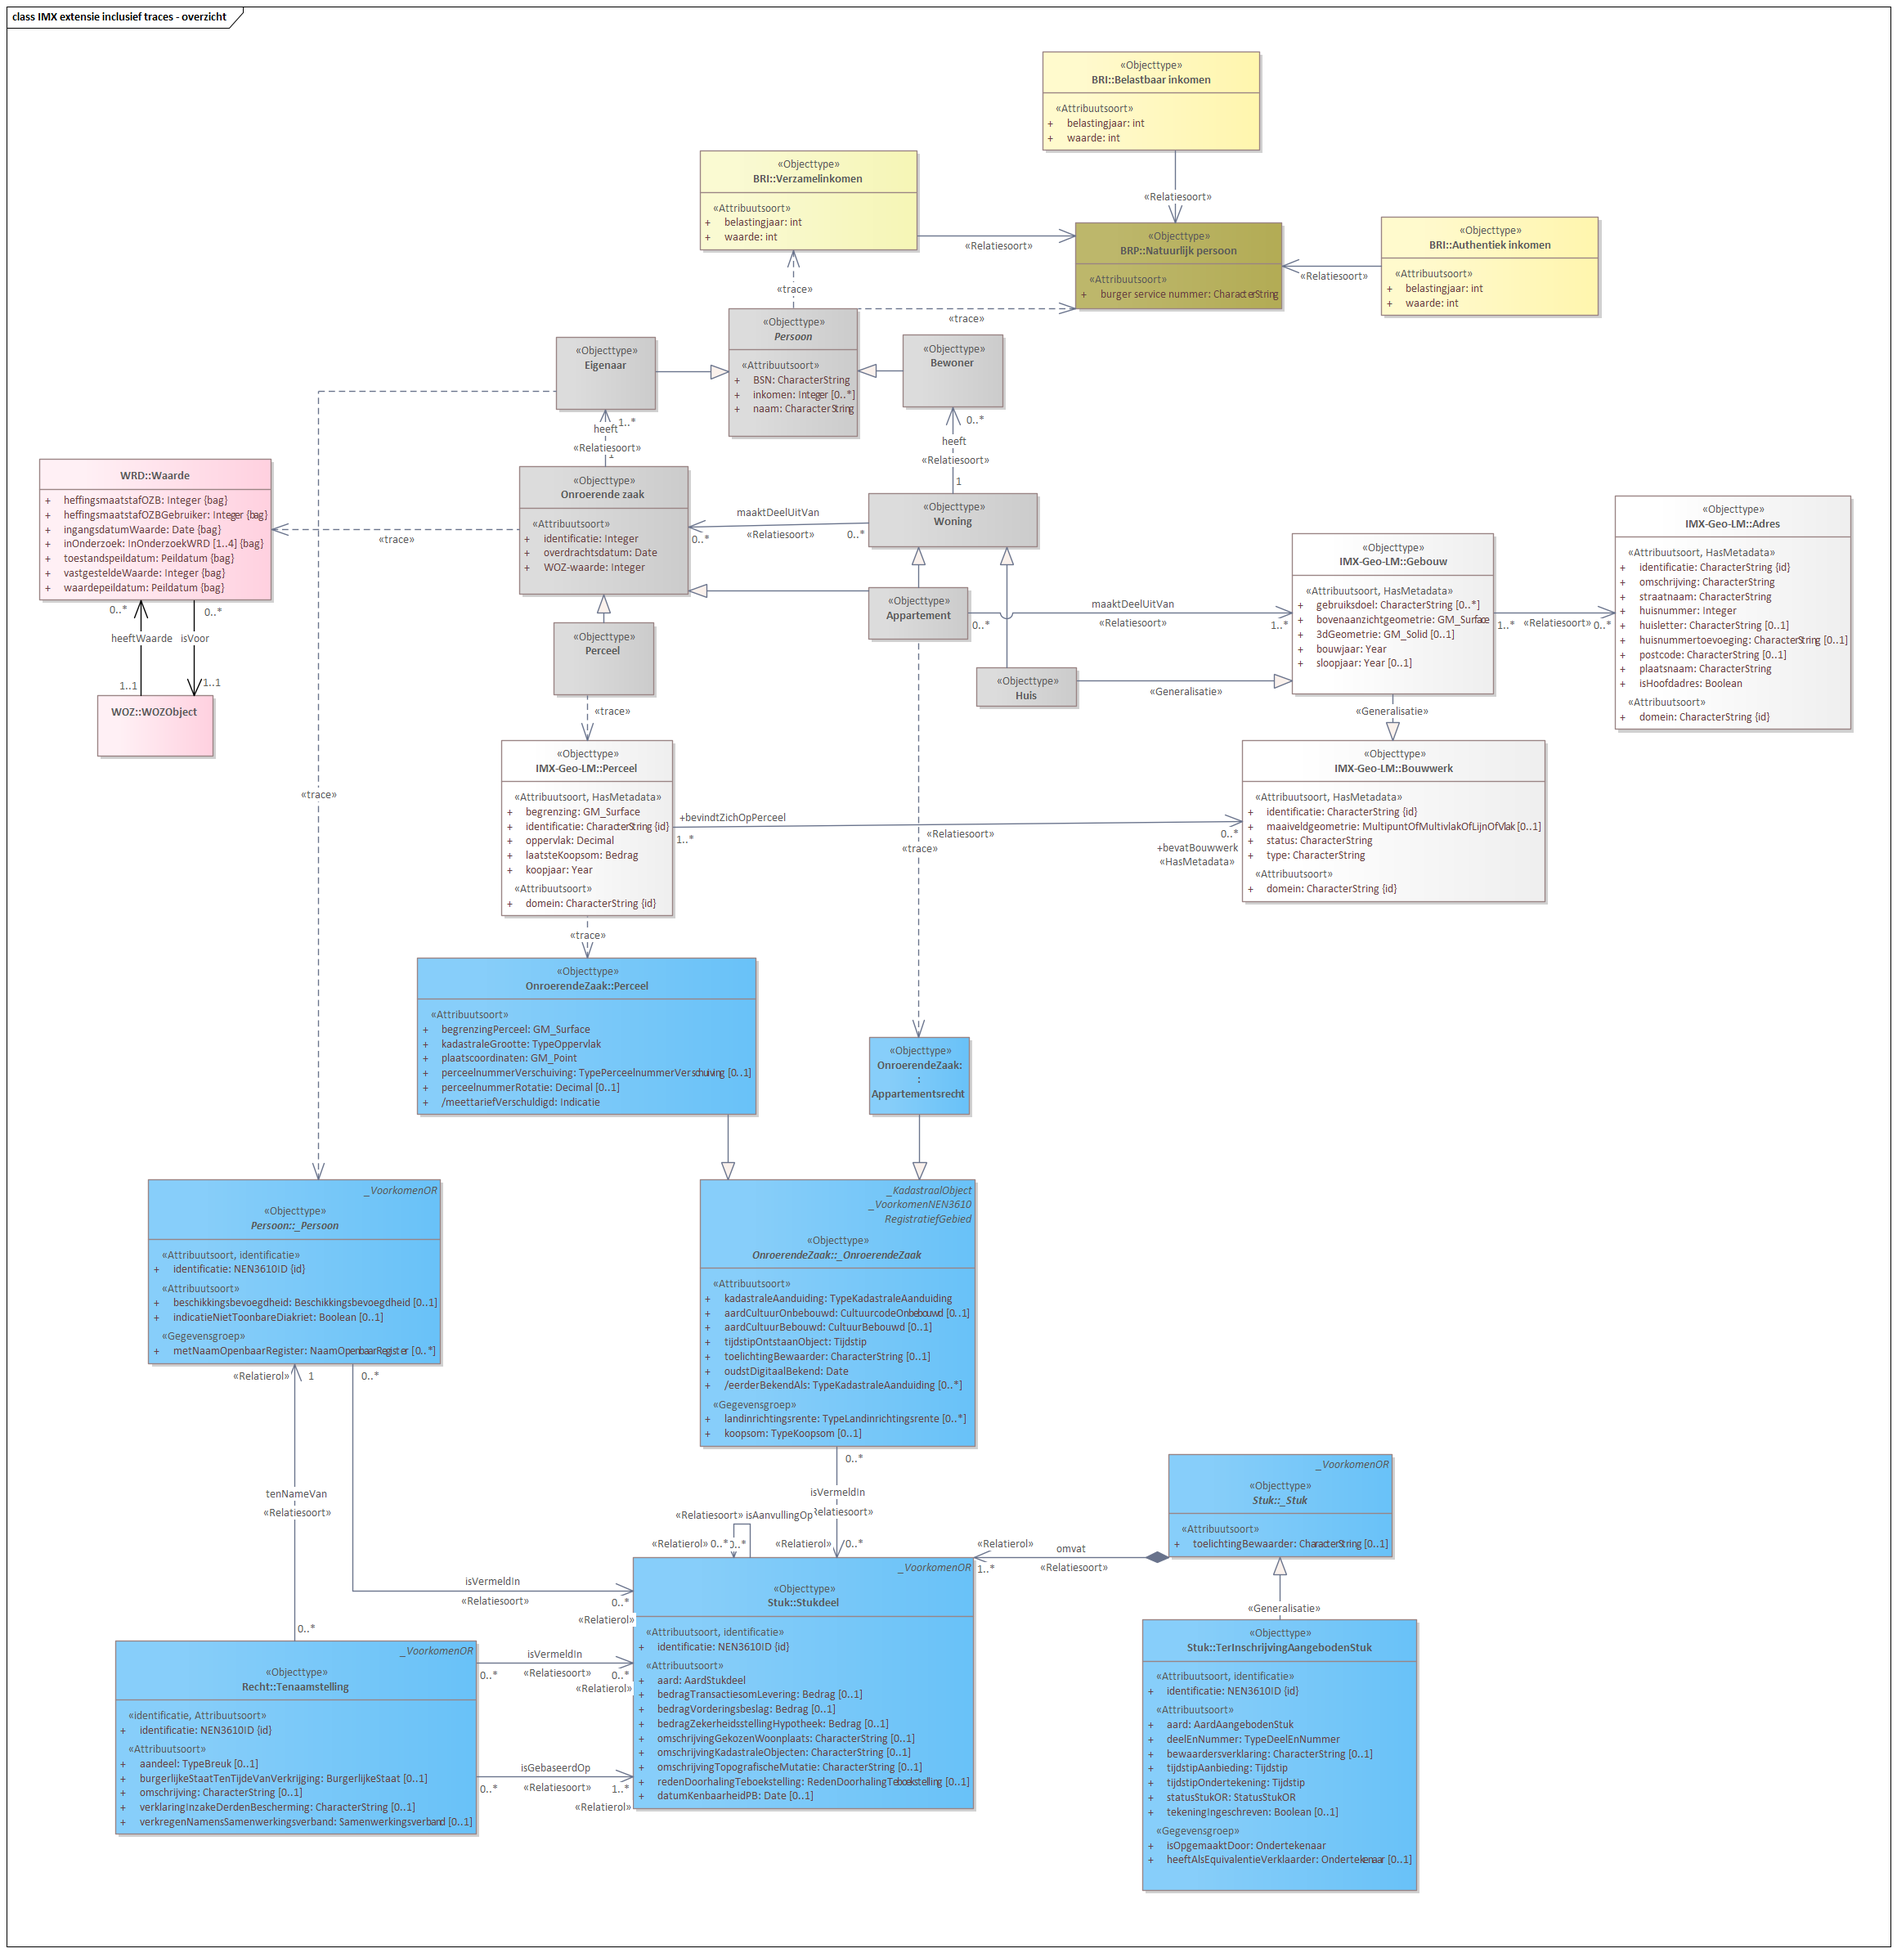
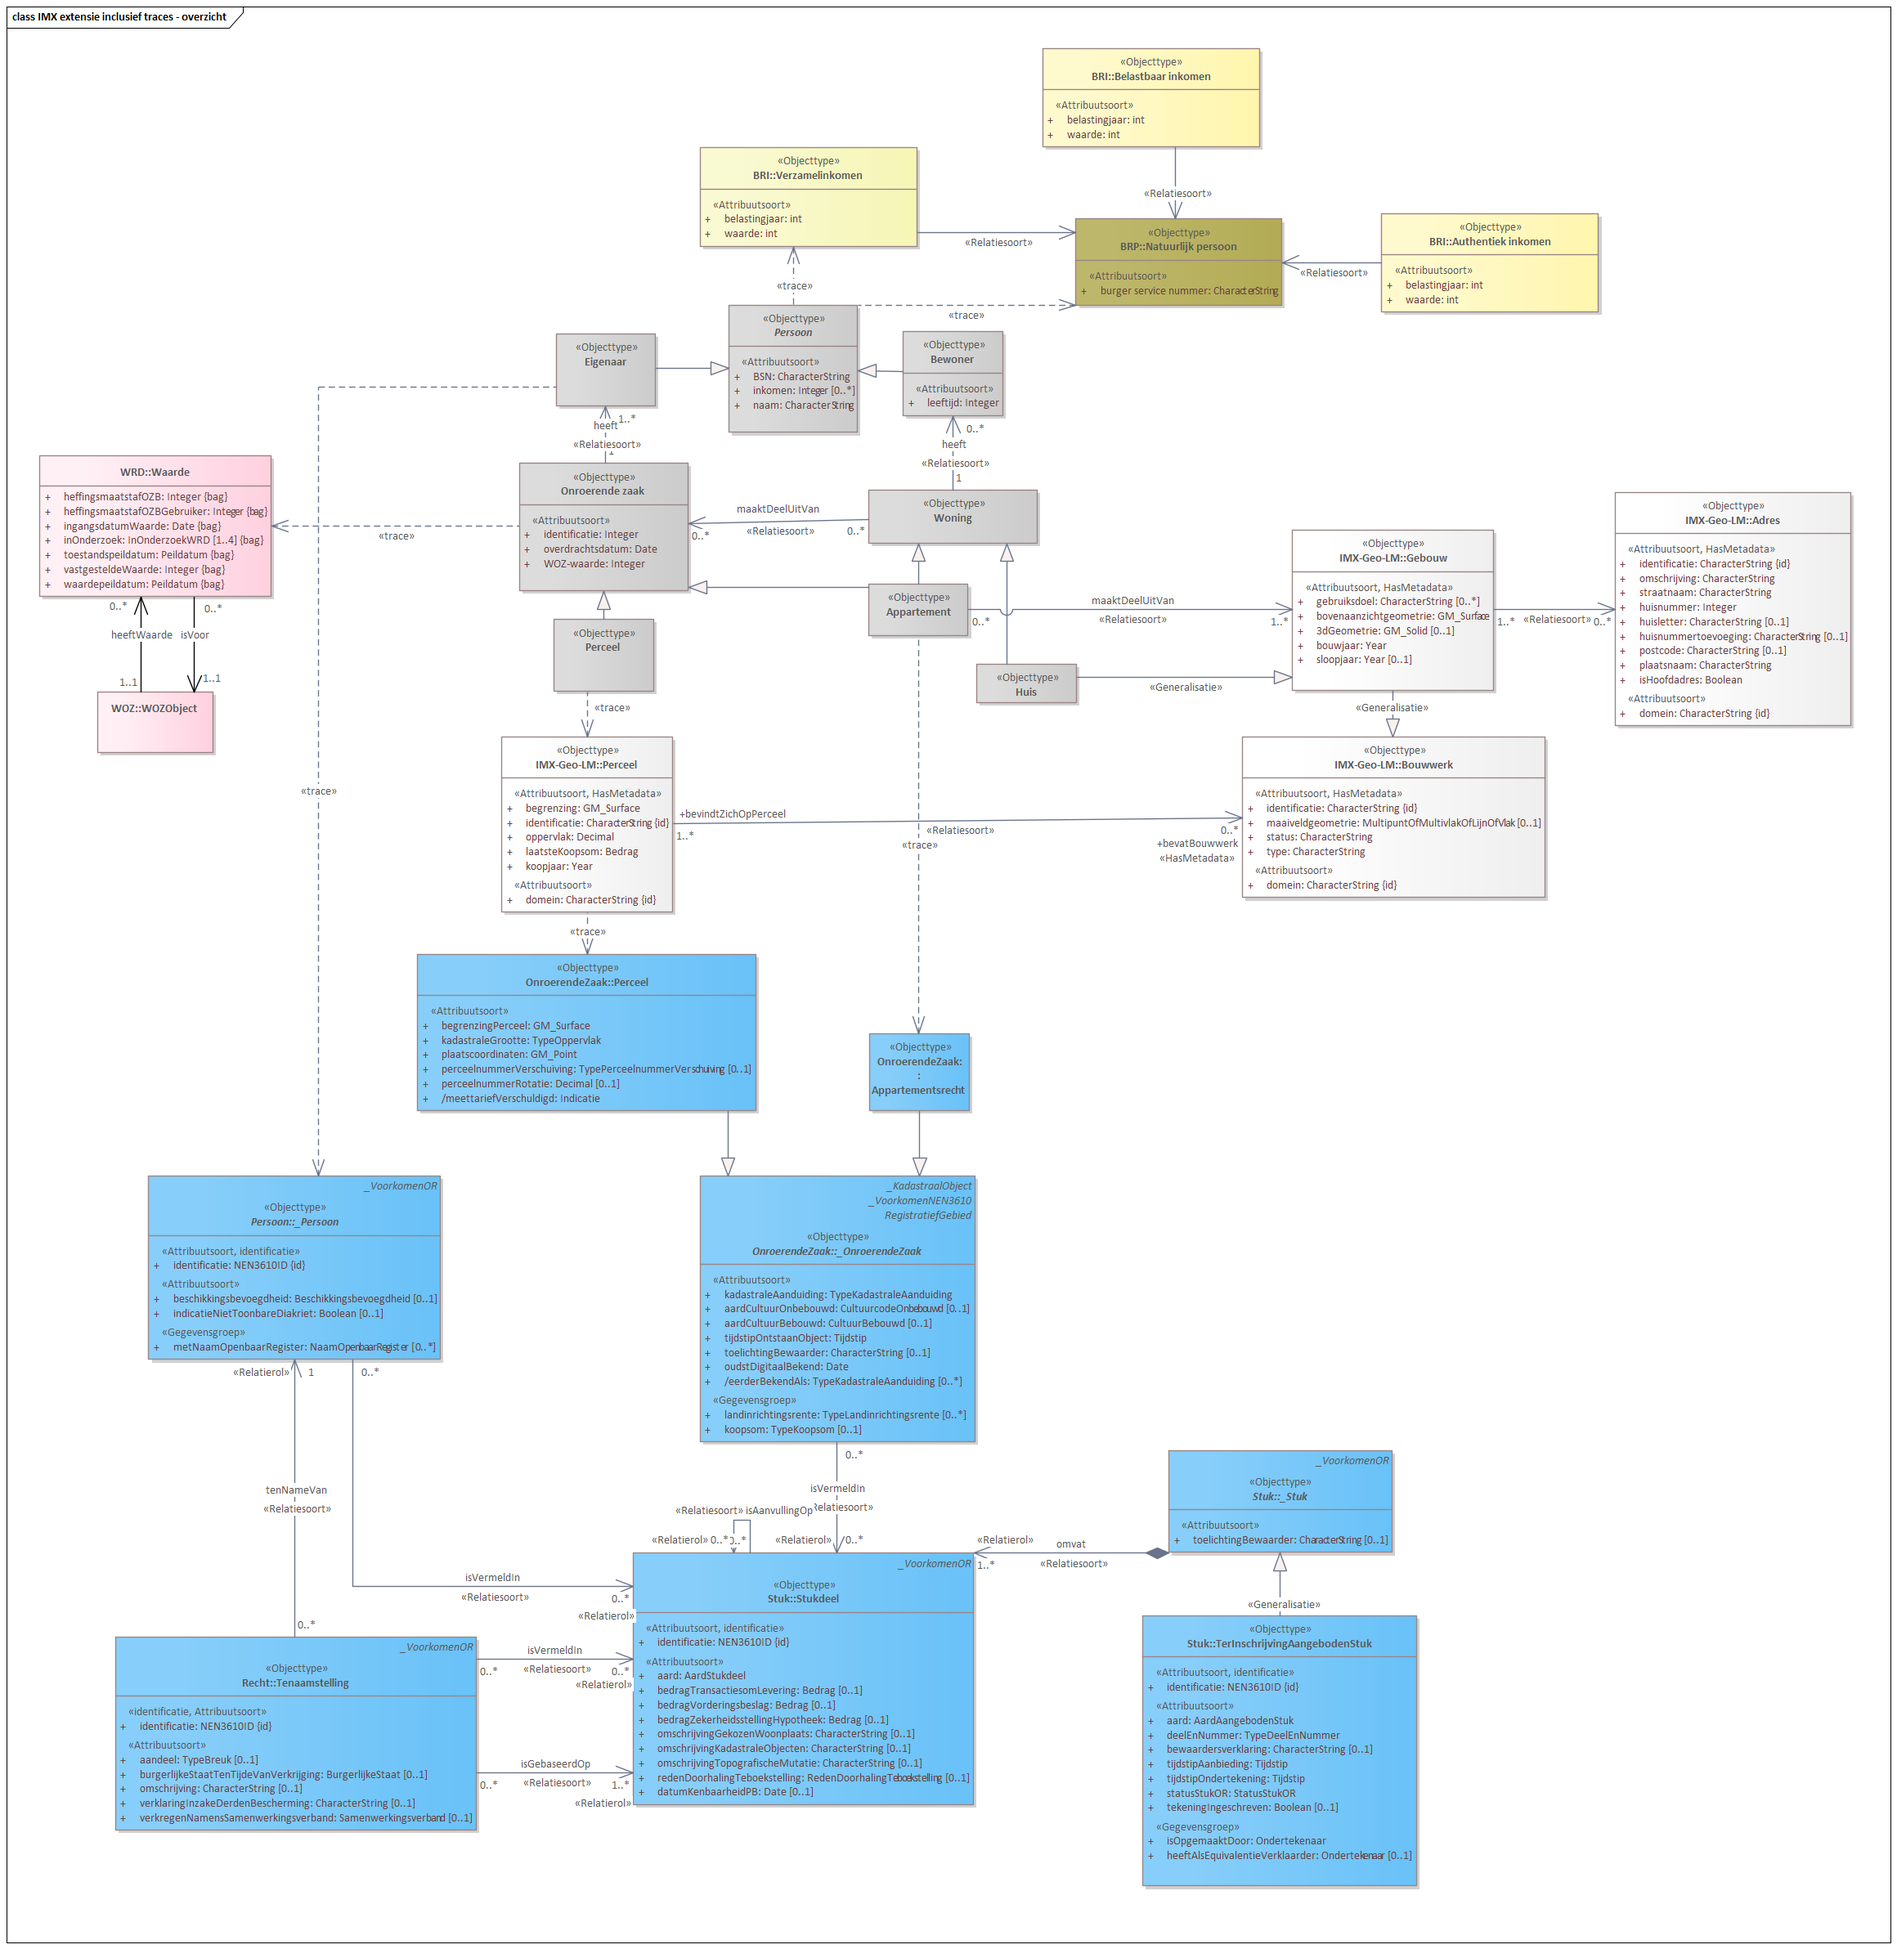
MIMCM-IMXDigilab-1.0-0-20231128-20240111-101956

diff --git a/data/imx-digilab-cat.respec.html b/data/imx-digilab-cat.respec.html
@@ -1,7 +1,7 @@
 
 <!DOCTYPE HTML><section id="cat" class="normative">
    <h2>Gegevensdefinitie</h2>
-   <!--MIMCM-IMXDigilab-1.0-0-20231128-20240111-082328 imvertor 2.0.0--><a class="anchor" id="global_package_InkomensafhankelijkeHuursverhoging"></a><section id="global_package_InkomensafhankelijkeHuursverhoging">
+   <!--MIMCM-IMXDigilab-1.0-0-20231128-20240111-101956 imvertor 2.0.0--><a class="anchor" id="global_package_InkomensafhankelijkeHuursverhoging"></a><section id="global_package_InkomensafhankelijkeHuursverhoging">
       <h3>Domein   Inkomensafhankelijke huursverhoging</h3>
       <section id="EAID_E1D40597_044B_4576_993B_D118A88B1844">
          <h4>   Inkomensafhankelijke huursverhoging - overzicht</h4>
@@ -1472,12 +1472,12 @@
       <h3>Domein   IMX extensie</h3>
       <section id="EAID_354A308E_EC56_463c_872F_C654818040C5">
          <h4>   IMX extensie inclusief traces - overzicht</h4>
-         <div class="imageinfo overview"><img src="data/Images/EAID_354A308E_EC56_463c_872F_C654818040C5.png" usemap="#imagemap-EAID_354A308E_EC56_463c_872F_C654818040C5" alt="Diagram &#xA;                        &#xA;                     "><map name="imagemap-EAID_354A308E_EC56_463c_872F_C654818040C5"><area shape="rect" alt="Persoon" coords="891,377,1049,534" href="#graph_EAID_77C05A32_1FCB_4596_AA1A_6EB78A5305B3"><area shape="rect" alt="Eigenaar" coords="680,412,802,501" href="#graph_EAID_7CAA0575_2AB2_460e_BE89_667DFEAF95C2"><area shape="rect" alt="Bewoner" coords="1104,409,1227,498" href="#graph_EAID_08F9B62A_8946_433a_AF6F_79D96EBBE327"><area shape="rect" alt="Huis" coords="1194,816,1317,864" href="#graph_EAID_6C86362C_775A_4448_BA53_2CE8EF9E6DDA"><area shape="rect" alt="Appartement" coords="1062,718,1184,782" href="#graph_EAID_4783E668_1C36_4cdb_AF6B_3682E5523703"><area shape="rect" alt="Perceel" coords="677,761,800,850" href="#graph_EAID_8D13CD5B_7065_44aa_BCB3_5A3DCAE7ADD8"><area shape="rect" alt="Woning" coords="1062,603,1269,669" href="#graph_EAID_64536B56_C796_4f61_A192_B5CFD13E24D7"><area shape="rect" alt="Onroerende zaak" coords="635,570,842,727" href="#graph_EAID_F031E7AA_8B04_45e3_8A65_C4D8FDBAB956"></map><p><b>IMX extensie inclusief traces - overzicht</b></p>
+         <div class="imageinfo overview"><img src="data/Images/EAID_354A308E_EC56_463c_872F_C654818040C5.png" usemap="#imagemap-EAID_354A308E_EC56_463c_872F_C654818040C5" alt="Diagram &#xA;                        &#xA;                     "><map name="imagemap-EAID_354A308E_EC56_463c_872F_C654818040C5"><area shape="rect" alt="Persoon" coords="891,373,1049,529" href="#graph_EAID_77C05A32_1FCB_4596_AA1A_6EB78A5305B3"><area shape="rect" alt="Eigenaar" coords="680,408,802,497" href="#graph_EAID_7CAA0575_2AB2_460e_BE89_667DFEAF95C2"><area shape="rect" alt="Bewoner" coords="1104,405,1227,509" href="#graph_EAID_08F9B62A_8946_433a_AF6F_79D96EBBE327"><area shape="rect" alt="Huis" coords="1194,812,1317,860" href="#graph_EAID_6C86362C_775A_4448_BA53_2CE8EF9E6DDA"><area shape="rect" alt="Appartement" coords="1062,714,1184,778" href="#graph_EAID_4783E668_1C36_4cdb_AF6B_3682E5523703"><area shape="rect" alt="Perceel" coords="677,757,800,846" href="#graph_EAID_8D13CD5B_7065_44aa_BCB3_5A3DCAE7ADD8"><area shape="rect" alt="Woning" coords="1062,599,1269,665" href="#graph_EAID_64536B56_C796_4f61_A192_B5CFD13E24D7"><area shape="rect" alt="Onroerende zaak" coords="635,566,842,723" href="#graph_EAID_F031E7AA_8B04_45e3_8A65_C4D8FDBAB956"></map><p><b>IMX extensie inclusief traces - overzicht</b></p>
          </div>
       </section>
       <section id="EAID_A96D0915_2F6C_4f2f_8F8B_29409FAF0E9C">
          <h4>   IMX extensie uitbreidende objecttypen - overzicht</h4>
-         <div class="imageinfo overview"><img src="data/Images/EAID_A96D0915_2F6C_4f2f_8F8B_29409FAF0E9C.png" usemap="#imagemap-EAID_A96D0915_2F6C_4f2f_8F8B_29409FAF0E9C" alt="Diagram &#xA;                        &#xA;                     "><map name="imagemap-EAID_A96D0915_2F6C_4f2f_8F8B_29409FAF0E9C"><area shape="rect" alt="Persoon" coords="798,63,957,220" href="#graph_EAID_77C05A32_1FCB_4596_AA1A_6EB78A5305B3"><area shape="rect" alt="Eigenaar" coords="587,98,710,187" href="#graph_EAID_7CAA0575_2AB2_460e_BE89_667DFEAF95C2"><area shape="rect" alt="Bewoner" coords="1011,96,1134,184" href="#graph_EAID_08F9B62A_8946_433a_AF6F_79D96EBBE327"><area shape="rect" alt="Huis" coords="1101,502,1224,550" href="#graph_EAID_6C86362C_775A_4448_BA53_2CE8EF9E6DDA"><area shape="rect" alt="Appartement" coords="969,404,1092,468" href="#graph_EAID_4783E668_1C36_4cdb_AF6B_3682E5523703"><area shape="rect" alt="Perceel" coords="584,448,707,536" href="#graph_EAID_8D13CD5B_7065_44aa_BCB3_5A3DCAE7ADD8"><area shape="rect" alt="Woning" coords="969,289,1176,355" href="#graph_EAID_64536B56_C796_4f61_A192_B5CFD13E24D7"><area shape="rect" alt="Onroerende zaak" coords="542,257,749,413" href="#graph_EAID_F031E7AA_8B04_45e3_8A65_C4D8FDBAB956"></map><p><b>IMX extensie uitbreidende objecttypen - overzicht</b></p>
+         <div class="imageinfo overview"><img src="data/Images/EAID_A96D0915_2F6C_4f2f_8F8B_29409FAF0E9C.png" usemap="#imagemap-EAID_A96D0915_2F6C_4f2f_8F8B_29409FAF0E9C" alt="Diagram &#xA;                        &#xA;                     "><map name="imagemap-EAID_A96D0915_2F6C_4f2f_8F8B_29409FAF0E9C"><area shape="rect" alt="Persoon" coords="304,63,463,220" href="#graph_EAID_77C05A32_1FCB_4596_AA1A_6EB78A5305B3"><area shape="rect" alt="Eigenaar" coords="93,98,216,187" href="#graph_EAID_7CAA0575_2AB2_460e_BE89_667DFEAF95C2"><area shape="rect" alt="Bewoner" coords="517,96,640,199" href="#graph_EAID_08F9B62A_8946_433a_AF6F_79D96EBBE327"><area shape="rect" alt="Huis" coords="607,502,730,550" href="#graph_EAID_6C86362C_775A_4448_BA53_2CE8EF9E6DDA"><area shape="rect" alt="Appartement" coords="475,404,598,468" href="#graph_EAID_4783E668_1C36_4cdb_AF6B_3682E5523703"><area shape="rect" alt="Perceel" coords="90,448,213,536" href="#graph_EAID_8D13CD5B_7065_44aa_BCB3_5A3DCAE7ADD8"><area shape="rect" alt="Woning" coords="475,289,682,355" href="#graph_EAID_64536B56_C796_4f61_A192_B5CFD13E24D7"><area shape="rect" alt="Onroerende zaak" coords="48,257,255,413" href="#graph_EAID_F031E7AA_8B04_45e3_8A65_C4D8FDBAB956"></map><p><b>IMX extensie uitbreidende objecttypen - overzicht</b></p>
          </div>
       </section>
       <section id="">
@@ -1495,6 +1495,34 @@
                   </tr>
                </tbody>
             </table>
+            
+            <h6>Overzicht attributen  </h6>
+            
+            <table style="width: 100%;">
+               <colgroup style="width: 30%;"></colgroup>
+               <colgroup style="width: 50%;"></colgroup>
+               <colgroup style="width: 10%;"></colgroup>
+               <colgroup style="width: 10%;"></colgroup>
+               <tbody>
+                  <tr>
+                     <th>Attribuutnaam</th>
+                     <th>Definitie</th>
+                     <th>Formaat</th>
+                     <th>Card</th>
+                  </tr>
+                  <tr>
+                     <td>
+                        <a class="link" href="#detail_attribute_IMXExtensie_Bewoner_leeftijd">leeftijd</a>
+                        </td>
+                     <td></td>
+                     <td>
+                        Integer
+                        </td>
+                     <td>1</td>
+                  </tr>
+               </tbody>
+            </table>
+            
             
             <h6>Overzicht relaties  </h6>
             
@@ -1997,6 +2025,36 @@
          
          <section id="">
             <h5>Objecttype details  </h5>
+            <a class="anchor" id="detail_class_IMXExtensie_Bewoner"></a><section id="detail_class_IMXExtensie_Bewoner">
+               <h6>   Bewoner</h6>
+               <a class="anchor" id="detail_attribute_IMXExtensie_Bewoner_leeftijd"></a><div class="deepheader" id="detail_attribute_IMXExtensie_Bewoner_leeftijd">
+                  <h7>Attribuutsoort details  <a href="#global_class_IMXExtensie_Bewoner">Bewoner</a> leeftijd</h7>
+                  
+                  <table style="width: 100%;">
+                     <colgroup style="width: 30%;"></colgroup>
+                     <colgroup style="width: 70%;"></colgroup>
+                     <tbody>
+                        <tr>
+                           <th>Naam</th>
+                           <td>leeftijd</td>
+                        </tr>
+                        <tr>
+                           <th>Mogelijk geen waarde</th>
+                           <td>Nee</td>
+                        </tr>
+                        <tr>
+                           <th>Kardinaliteit</th>
+                           <td>1</td>
+                        </tr>
+                        <tr>
+                           <th>Type</th>
+                           <td>Integer</td>
+                        </tr>
+                     </tbody>
+                  </table>
+                  </div>
+               </section>
+            
             <a class="anchor" id="detail_class_IMXExtensie_Appartement"></a><section id="detail_class_IMXExtensie_Appartement">
                <h6>   Appartement</h6>
                <a class="anchor" id="detail_association_IMXExtensie_Appartement_gebouw"></a><div class="deepheader" id="detail_association_IMXExtensie_Appartement_gebouw">
@@ -2308,7 +2366,7 @@
 </section>
 <section id="lis" class="normative">
    <h2>Inhoud van waardenlijsten</h2>
-   <!--MIMCM-IMXDigilab-1.0-0-20231128-20240111-082328 imvertor 2.0.0-->
+   <!--MIMCM-IMXDigilab-1.0-0-20231128-20240111-101956 imvertor 2.0.0-->
    <section id="">
       <h3>Enumeratie inhoud   </h3><a class="anchor" id="graph_EAID_E3A2BC22_5E84_4d1e_9AC8_98B9FA886538"></a><a class="anchor" id="detail_class_InkomensafhankelijkeHuursverhoging_Inkomenscategorie"></a><section id="detail_class_InkomensafhankelijkeHuursverhoging_Inkomenscategorie">
          <h4>Enumeratie details  Inkomenscategorie</h4>
